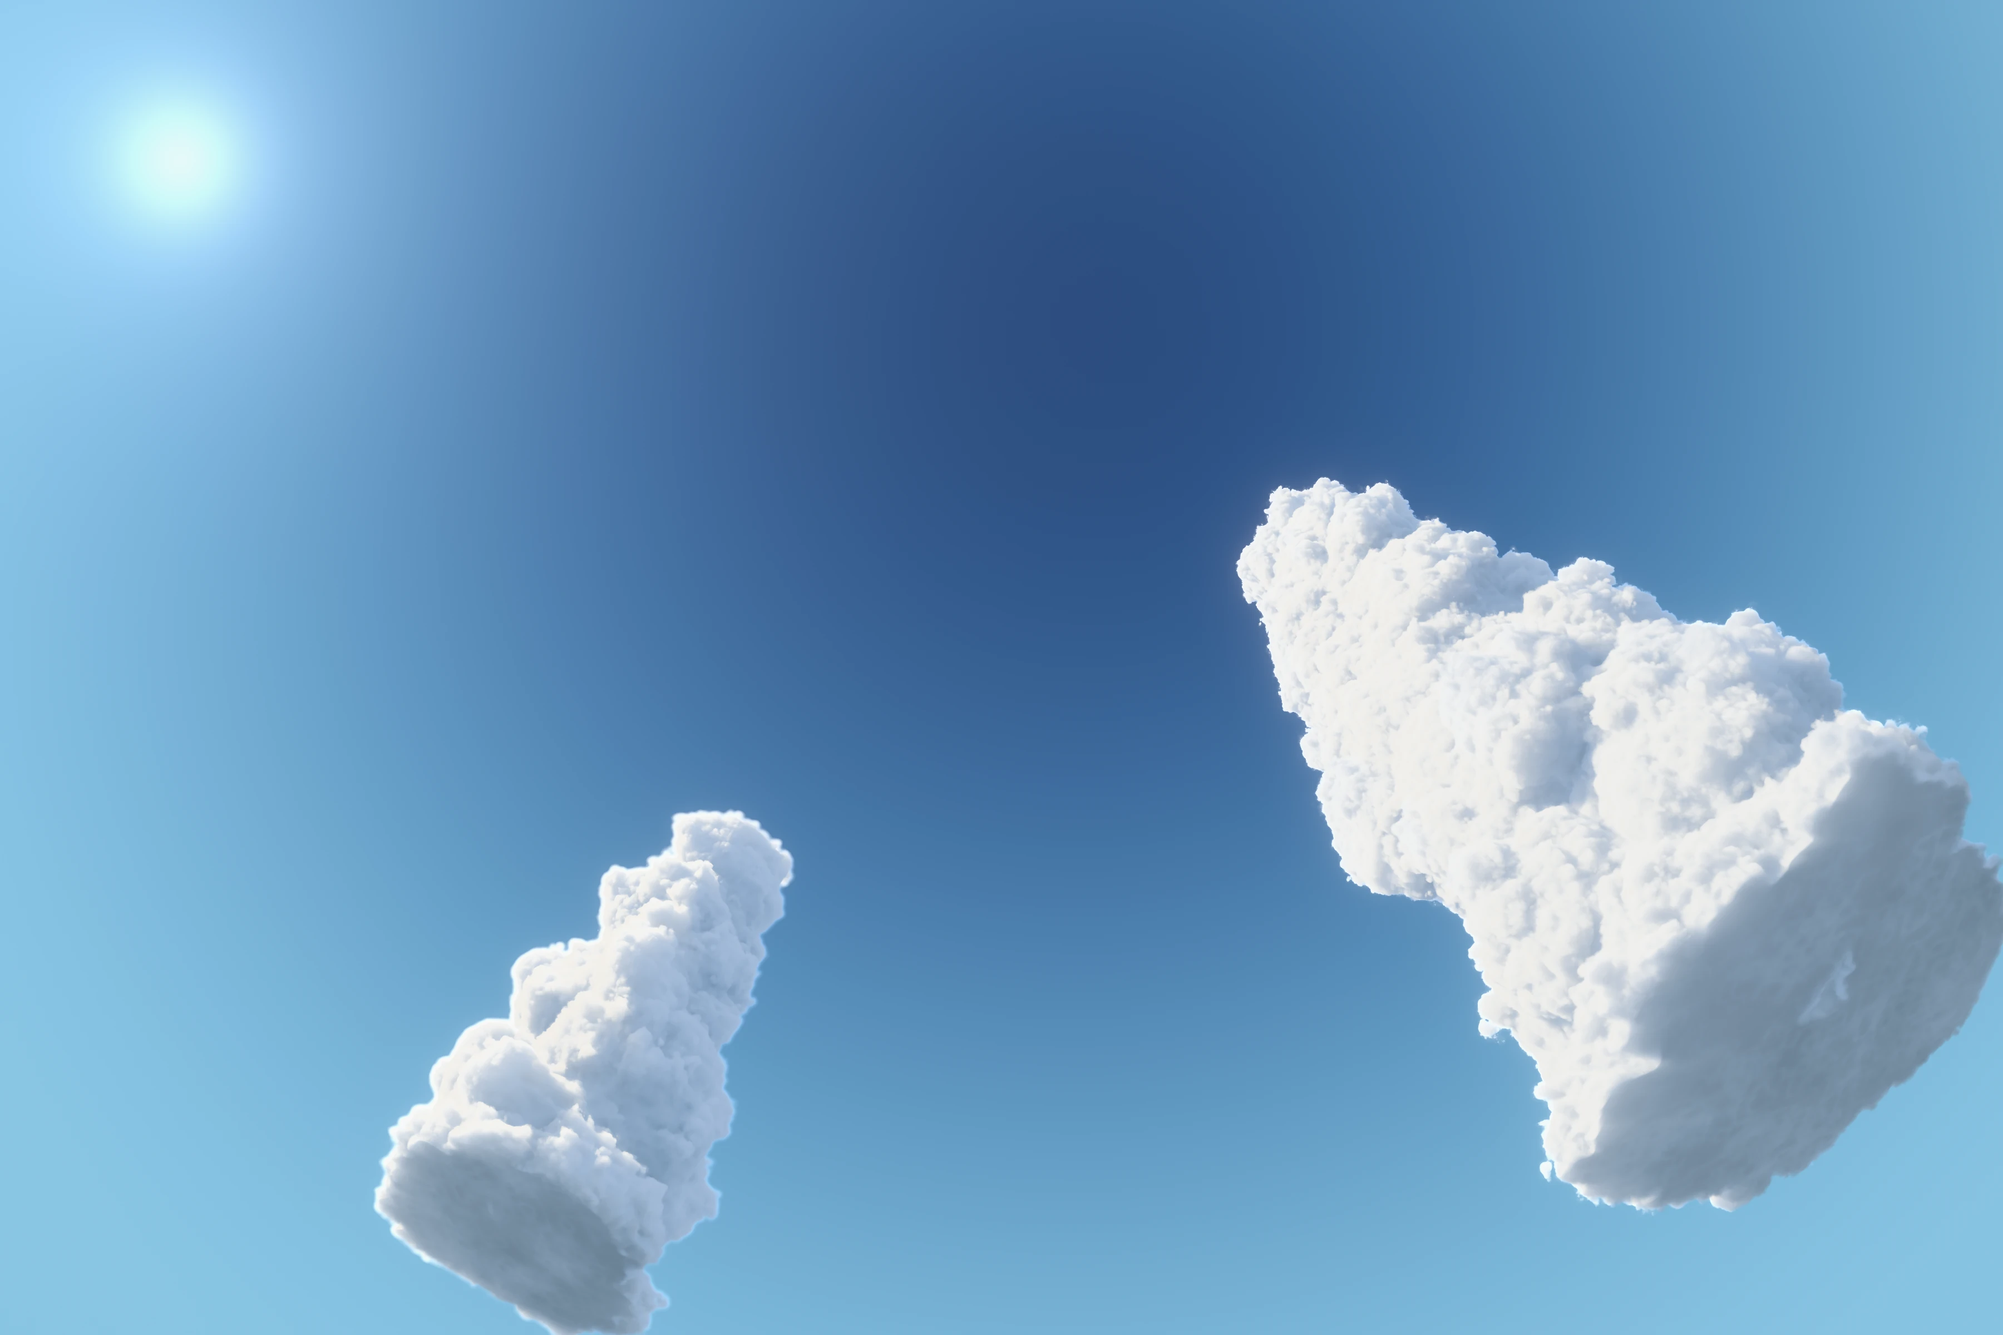
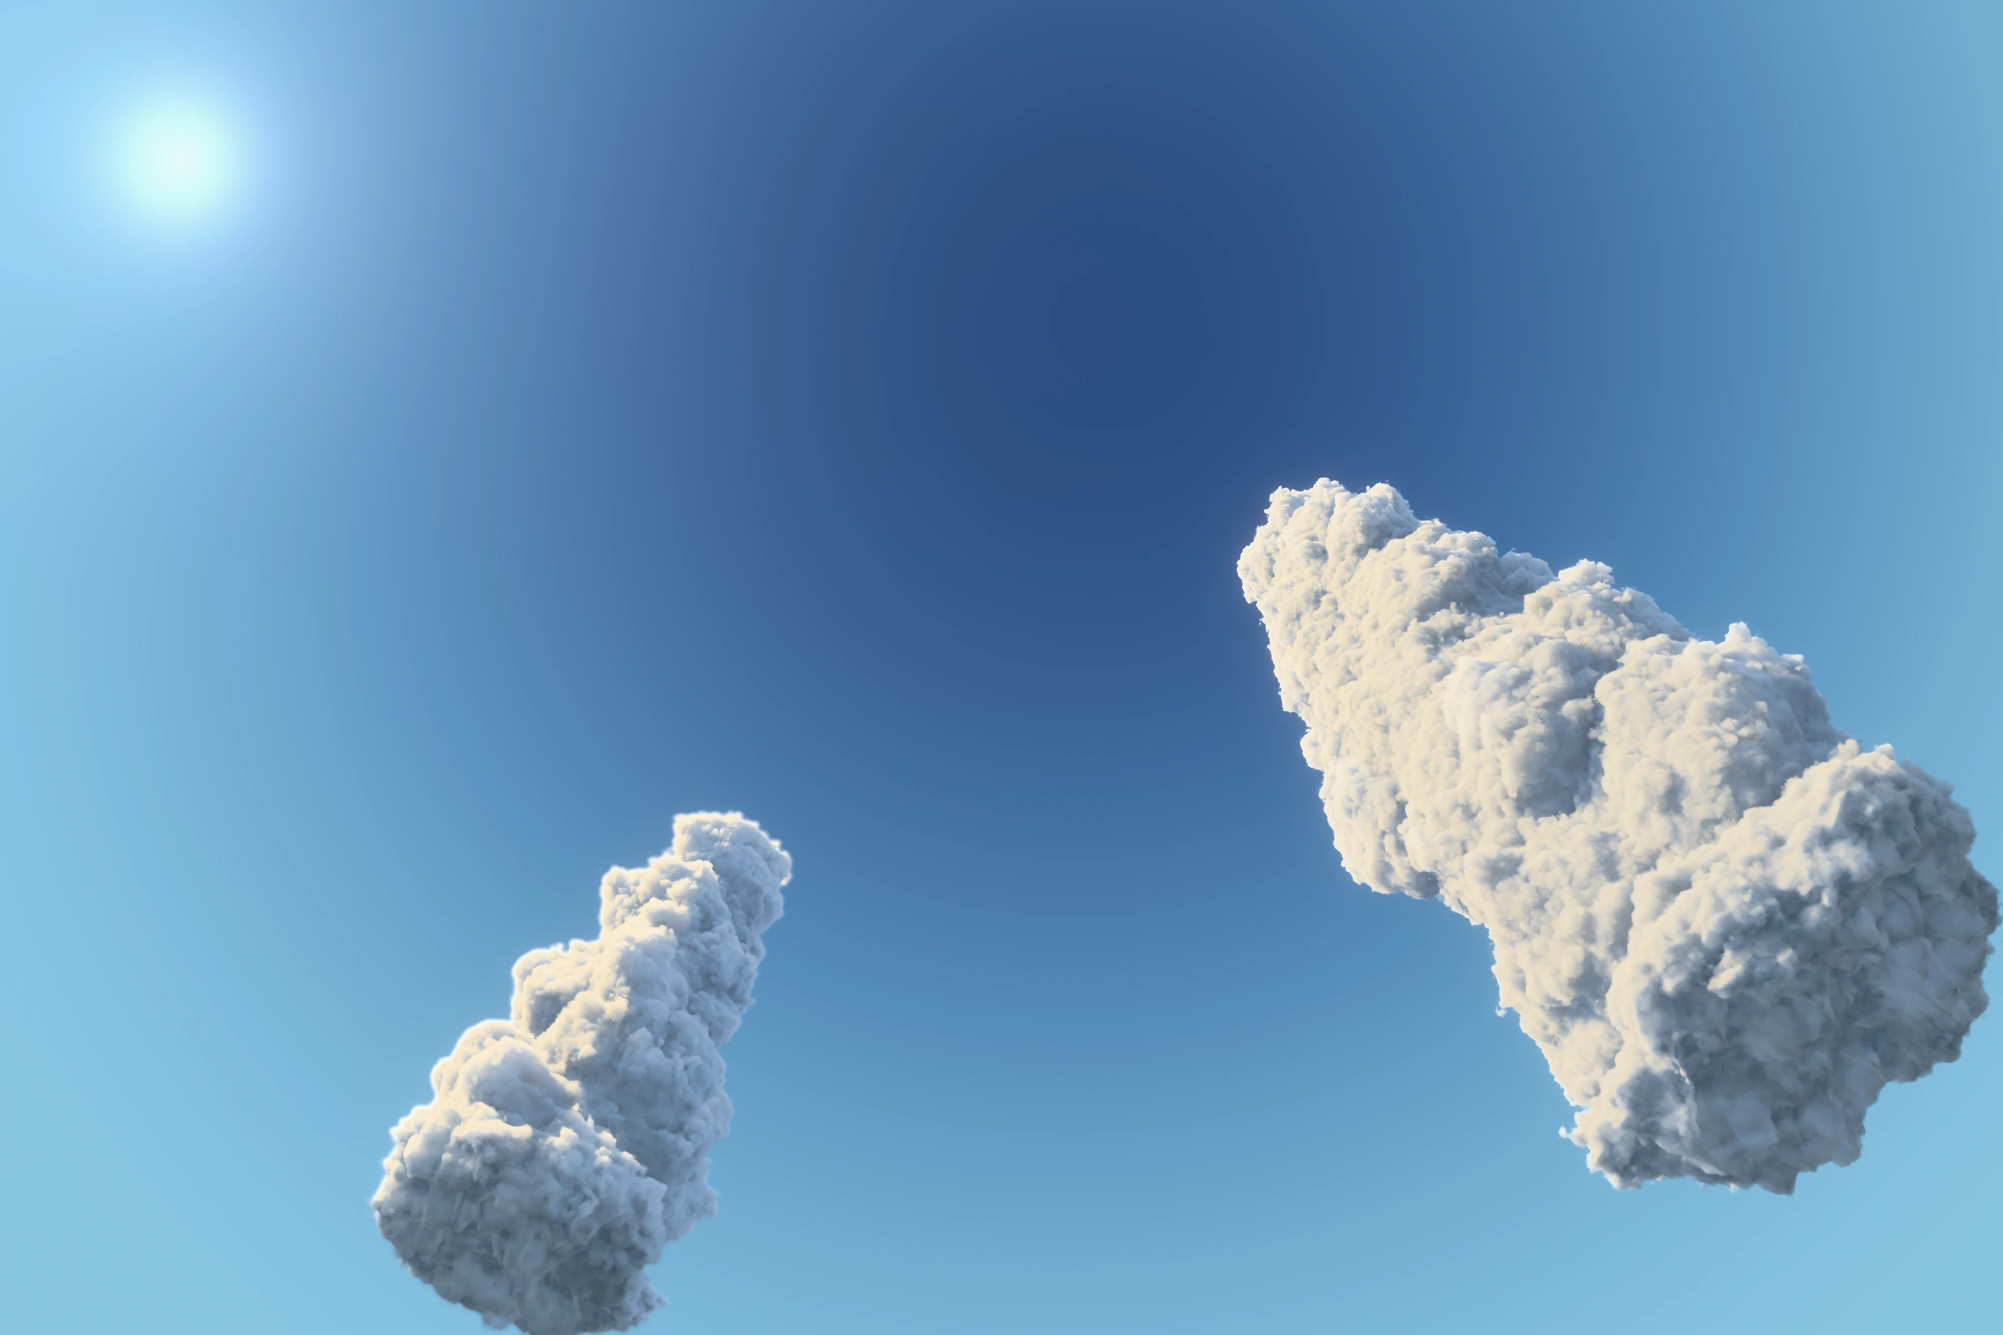
Lab: climb kaze round 2
Claude-Session: https://claude.ai/code/session_01RqENhngNCzDFmJWDZueXGV

Changed region(s): [[0.6222, 0.3438, 1.0, 0.9062], [0.1867, 0.5938, 0.4044, 1.0]]

diff --git a/tools/depth/bakes/kaze/sky_cumulus.py b/tools/depth/bakes/kaze/sky_cumulus.py
@@ -15,8 +15,14 @@ A cumulus here is a cauliflower, in km, the camera at the origin (x east,
 y ahead, z up):
 
 - A column of lobes up a slightly leaning axis, a skirt of lobes at the
-  bottom, all of it cut flat by the condensation level (a horizontal
-  plane): from below that cut is the flat base. The column is a stack of
+  bottom, all of it cut by the condensation level: from below that cut is
+  the base, flat in the large but never a ruled plane. It sags a little
+  under broad lumps (BSAG, BSF), so the underside is a set of shallow
+  downturned domes, and it is joined to the body by a smooth maximum
+  (BSK), so the flank's lobes roll round a broad shoulder onto it; the
+  erosion below is laid after the cut and runs on over that shoulder. (A
+  hard cut, seen from below, printed one dead-straight terminator across
+  the foot and a flat blue-grey slab under it.) The column is a stack of
   distinct lobes about a radius apart, alternately fuller and leaner and
   each pushed off the axis the other way from the one below, and every
   lobe of it and of the skirt carries a ring of side lobes pushed out
@@ -53,9 +59,11 @@ corner, as in kazeEngine.js) and toward the zenith:
   about two thirds of the sunlit tops' value, so each mass reads as a
   volume turned from the light and not a white cut-out;
 - the base: the flat underside, under the whole tower and facing down,
-  takes no sun, a dimmer and mottled light, and a flat blue-grey rather
-  than the flanks' cyan (about half the tops' value), low near the frame's
-  edge under every mass;
+  takes no sun, a dimmer and mottled light, and a blue-grey rather than
+  the flanks' cyan (about half the tops' value), modelled by its own lumps
+  (each downturned dome's side, tilted toward the horizon, takes more of
+  the low sky than its bottom, LOBK) with skylight-cyan clefts between
+  them, low near the frame's edge under every mass;
 - a little warm bounce from the summer ground on the undersides;
 - forward scattering (Henyey-Greenstein, g 0.72) where a thin edge stands
   between you and the sun: the silver lining; and the powder (the skin
@@ -73,14 +81,14 @@ nothing toward the sun, so the top left quarter is an open corner where the
 sun's bloom runs clean into the cobalt (TOWERS).
 
 The open sky and the sun's bloom are sky_tower.py's (open_sky). The cloud
-is exposed by its sunlit tops (GAIN, pinned to what WHITE at PCT 90
-measured over the old four-mass field), so the shade below them
-keeps its own value instead of being lifted toward the median, and its
-brightest domes roll off under the clip through a long shoulder (KNEE to
-TOP, rational, so the sunlit faces keep their lobe-by-lobe steps rather
-than flattening into one cream) that whitens as it rolls (DESAT), as film
-does near its white; the engine's grade and the
-film's shoulder carry them the rest of the way. Last, the cloud's whites
+is exposed by a pinned GAIN, set low enough that the sunlit faces sit on
+the steep part of a long shoulder (KNEE to TOP, rational) and not on its
+flat top: they print about 215 to 235, each lit knuckle a step above its
+lee, and only the crowns square to the sun climb to about 240, leaned to
+a warm cream (WARM, CREAM: about #F6EEDD once the engine's grade and the
+film's highlight tint have taken their share). Exposed as it was before
+(about 1.7 times this), the whole lit face pressed into the shoulder and
+printed one plateau of 238 to 245 neutral white. Last, the cloud's whites
 bleed a little into the cobalt round them (sky_tower.py's bleed), as light
 diffuses in the emulsion, so no lit edge meets the blue at a digital cut.
 The bake prints, per mass, the luminance of its body and of its base.
@@ -109,7 +117,9 @@ LVOX = float(os.environ.get("LVOX", 0.03))  # km: the light grid
 LUM = np.array([0.2126, 0.7152, 0.0722], np.float32)
 
 # Light, linear, before the exposure.
-SUN_C = np.array([1.0, 0.91, 0.74], np.float32)       # warm-neutral
+# The sun: warm, so the domes square to it print cream and not the neutral
+# white a cooler sun made of them once the skylight was added on top
+SUN_C = np.array([float(c) for c in os.environ.get("SUNC", "1.0,0.84,0.56").split(",")], np.float32)
 # The skylight, and the multiply scattered light inside the cloud, take the
 # zenith's colour, not grey: a pale cyan (hue about 200), so the flanks
 # turned from the sun print a luminous skylight cyan and never lean lavender.
@@ -121,13 +131,13 @@ GND_C = np.array([0.55, 0.50, 0.40], np.float32)      # bounce off the summer gr
 BASE_C = np.array([0.66, 0.81, 1.0], np.float32)
 BASE_C /= float(BASE_C @ np.array([0.2126, 0.7152, 0.0722], np.float32))
 KS = float(os.environ.get("KS", 4.0))    # sun
-KA = float(os.environ.get("KA", 2.4))   # skylight
-KM = float(os.environ.get("KM", 0.4))   # the deep multiple scattering (diffusion)
+KA = float(os.environ.get("KA", 2.0))   # skylight
+KM = float(os.environ.get("KM", 0.25))   # the deep multiple scattering (diffusion)
 KG = float(os.environ.get("KG", 0.05))   # ground bounce
 MSK = float(os.environ.get("MSK", 0.16))  # how fast the deep diffusion falls off with the sun's depth
-MSO = float(os.environ.get("MSO", 0.38))  # each scattering octave's contribution after the last
+MSO = float(os.environ.get("MSO", 0.3))  # each scattering octave's contribution after the last
 SKYF = float(os.environ.get("SKYF", 0.4))  # the skylight's floor under the cloud over a sample
-BASEK = float(os.environ.get("BASEK", 0.35))  # how far the flat base darkens
+BASEK = float(os.environ.get("BASEK", 0.5))  # how far the flat base darkens
 BASEH = float(os.environ.get("BASEH", 0.12))  # km: how deep up the tower the base's shade reaches
 G0 = float(os.environ.get("G0", 0.72))   # forward lobe of the first octave
 OCT = int(os.environ.get("OCT", 4))      # scattering octaves
@@ -140,10 +150,21 @@ FRW = float(os.environ.get("FRW", 0.022))     # km: the translucent fringe outsi
 FRD = float(os.environ.get("FRD", 0.05))      # its density, against the body's
 FRG = float(os.environ.get("FRG", 0.85))      # its forward lobe
 FRK = float(os.environ.get("FRK", 1.2))       # and how much of it
+LOBK = float(os.environ.get("LOBK", 0.8))     # how far the base's lumps model it
+AOK = float(os.environ.get("AOK", 0.6))       # how far the clefts between billows shade the skylight
 WHITE = float(os.environ.get("WHITE", 3.0))
-DESAT = float(os.environ.get("DESAT", 0.5))  # how far the shoulder whitens
+DESAT = float(os.environ.get("DESAT", 0.0))  # how far the shoulder whitens
 PCT = float(os.environ.get("PCT", 90.0))  # the cloud's 90th percentile is exposed to WHITE (linear)
-GAIN = float(os.environ.get("GAIN", 1.353))  # unless the exposure is pinned (0: by PCT)
+GAIN = float(os.environ.get("GAIN", 0.8))  # unless the exposure is pinned (0: by PCT)
+BSAG = float(os.environ.get("BSAG", 0.2))  # km: how far the base sags under its lumps
+BSK = float(os.environ.get("BSK", 0.13))    # km: the shoulder where the flank rolls onto the base
+BSF = float(os.environ.get("BSF", 4.5))     # /km: the sagging lumps' frequency
+WARM = float(os.environ.get("WARM", 0.9))    # how far the sunlit crowns lean to cream
+# the crowns' cream, as baked: warmer than the #F6EEDD they print at, since
+# the film's shoulder and its highlight tint take some of it back
+CREAM = np.array([int(os.environ.get("CREAMC", "F8E6C6")[i:i + 2], 16) / 255 for i in (0, 2, 4)], np.float32)
+CREAM = np.where(CREAM <= 0.04045, CREAM / 12.92, ((CREAM + 0.055) / 1.055) ** 2.4).astype(np.float32)
+CREAM /= float(CREAM @ LUM)
 FEATHER = float(os.environ.get("FEATHER", 1.0))  # the far mass's feathered rim (0: off)
 
 # The masses: azimuth (deg, 0 straight ahead = the frame's bottom centre,
@@ -157,7 +178,7 @@ TOWERS = [
     # enough off (2.6 km) that it is seen from the side, not from under its
     # base, at the wide lens. The one subject of the frame: one glowing tower
     # behind the dark hero culm, and from the sun a clean cobalt diagonal
-    dict(az=48, dist=2.6, zb=1.3, zt=5.2, rb=0.68, rt=0.44, lean=0.3, seed=1, foot=0.8),
+    dict(az=48, dist=2.6, zb=1.3, zt=5.2, rb=0.68, rt=0.44, lean=0.3, seed=1, foot=0.72),
     # low on the left, small and far: a subordinate cloud side-lit from
     # the left, its domes just clearing the field, well under the hero
     # (feathered: at its distance the silver fringe toward the sun shrinks
@@ -360,7 +381,7 @@ def tower(T):
     S = np.array(S, np.float64)
     lo = np.min(S[:, :3] - S[:, 3:4], 0) - 0.08
     hi = np.max(S[:, :3] + S[:, 3:4], 0) + 0.08
-    lo[2] = zb - 0.02
+    lo[2] = zb - BSAG - 0.04
     return S, lo, hi
 
 
@@ -431,7 +452,7 @@ def fine(x, y, z, seed):
 # ---- the grids ----
 
 @nb.njit(cache=True, parallel=True)
-def build_sdf(S, lo, nx, ny, nz, vox, zb, seed, mid):
+def build_sdf(S, lo, nx, ny, nz, vox, zb, seed, mid, bsag, bk, bsf):
     # a lower bound on the distance everywhere (FAR where no sphere is
     # within FAR of it), so the march may sphere-trace through the air
     FAR = 0.15
@@ -464,16 +485,33 @@ def build_sdf(S, lo, nx, ny, nz, vox, zb, seed, mid):
             for ii in range(nx):
                 x = lo[0] + (ii + 0.5) * vox
                 v = sdf[k, j, ii]
+                # the base: the condensation level, but not a ruled plane.
+                # Under each skirt lobe the cloud sags a little lower (broad
+                # lumps of a few hundred metres, up to bsag), so the
+                # underside is a set of shallow downturned domes, each
+                # turned its own way to the low sky
+                sag = bsag * min(max(billow(x, y, 0.0, bsf, 3, seed + 7) - BMEAN + 0.45, 0.0), 1.0)
+                cut = zb - sag - z + 0.012 * vnoise(x * 6.0, y * 6.0, 0.0, seed + 5)
                 if v < 0.15:
+                    # and the cut is joined to the body by a smooth maximum,
+                    # not a hard one: the flank's lobes roll round a broad
+                    # shoulder onto the base instead of meeting it at a
+                    # sharp rim, which seen from below printed as one dead
+                    # straight terminator across the foot
+                    h = min(max(0.5 + 0.5 * (v - cut) / bk, 0.0), 1.0)
+                    v = cut + (v - cut) * h + bk * h * (1.0 - h)
                     # the large erosion: lumps of a few hundred metres down to
                     # tens, and a middle one of about a hundred, both laid
                     # cauliflower-way out (as fine() is): round lumps stand
-                    # proud, sharp clefts cut in between them
-                    v += 0.055 * (billow(x, y, z, 3.2, 4, seed) - BMEAN + 0.05)
-                    v += mid * (billow(x, y, z, 9.0, 3, seed + 1) - BMEAN)
-                # the base: cut flat at the condensation level, faintly
-                # rippled so its edge is not a ruled line
-                v = max(v, zb - z + 0.012 * vnoise(x * 6.0, y * 6.0, 0.0, seed + 5))
+                    # proud, sharp clefts cut in between them. Laid after the
+                    # cut, so the billows and their clefts run on over the
+                    # shoulder and onto the base (a little shallower on the
+                    # underside itself, which stays flat in the large)
+                    wb = 0.55 + 0.45 * min(max((z - zb + sag) / 0.16, 0.0), 1.0)
+                    v += wb * 0.055 * (billow(x, y, z, 3.2, 4, seed) - BMEAN + 0.05)
+                    v += wb * mid * (billow(x, y, z, 9.0, 3, seed + 1) - BMEAN)
+                else:
+                    v = max(v, cut)
                 sdf[k, j, ii] = v
     return sdf
 
@@ -579,6 +617,9 @@ def render(DX, DY, DZ, sdf, ts, tu, lo, hi, vox, lvox, L, zb, zt, ramp, sigma, s
     ks, ka, km, kg, g0, noct, powk, fd = P[0], P[1], P[2], P[3], P[4], int(P[5]), P[6], P[7]
     msk, skyf, bk, bh, mso = P[8], P[9], P[10], P[11], P[12]
     frw, frd, frg, frk = P[13], P[14], P[15], P[16]
+    aok, lobk = P[17], P[18]
+    # the skylight's colour at unit luminance
+    skyn = skyc / (0.2126 * skyc[0] + 0.7152 * skyc[1] + 0.0722 * skyc[2])
     # how far out of the grid's surface a sample may still be cloud: the
     # skin, the fine billows standing proud of it, and the fringe beyond
     reach = max(ramp * 1.6, ramp * 0.5 + 0.7 * fd + frw)
@@ -733,7 +774,7 @@ def render(DX, DY, DZ, sdf, ts, tu, lo, hi, vox, lvox, L, zb, zt, ramp, sigma, s
                 # the floors are high: inside a cumulus the skylight is
                 # itself scattered round many times, so no face goes dark
                 sky = ((skyf + (1.0 - skyf) * math.exp(-0.05 * tau_u)) * (0.7 + 0.3 * hn)
-                       * (0.72 + 0.28 * gz) * (0.6 + 0.4 * ao))
+                       * (0.72 + 0.28 * gz) * (1.0 - aok + aok * ao))
                 gnd = (1 - hn) ** 2
                 # the base: the flat underside, under the whole tower and
                 # facing down, sees neither the sun nor the zenith, only the
@@ -758,9 +799,22 @@ def render(DX, DY, DZ, sdf, ts, tu, lo, hi, vox, lvox, L, zb, zt, ramp, sigma, s
                     # is, not a smooth grey disc
                     mot = 0.8 + 0.6 * vnoise(x * 7.0, y * 7.0, 0.5, seed + 9) + 0.2 * vnoise(x * 19.0, y * 19.0, 0.5, seed + 11)
                     k_ = 1.0 - bk * hb * (0.55 + 0.45 * (1.0 - math.exp(-0.015 * tau_u))) * mot
-                    er = (er * (1.0 - 0.75 * hb) + yl * basec[0] * 0.75 * hb) * k_
-                    eg = (eg * (1.0 - 0.75 * hb) + yl * basec[1] * 0.75 * hb) * k_
-                    eb_ = (eb_ * (1.0 - 0.75 * hb) + yl * basec[2] * 0.75 * hb) * k_
+                    # the underside's own lobes: each downturned dome's
+                    # flank, tilted toward the horizon, takes more of the
+                    # low sky than its bottom, and the clefts between the
+                    # domes less, so the base reads as lobes and not one
+                    # flat plane; the clefts lean to the skylight's cyan
+                    # rather than the base's grey
+                    hz_ = math.sqrt(gx * gx + gy * gy)
+                    lob = (1.0 - lobk) + lobk * (0.55 + 1.1 * hz_) * (0.35 + 0.65 * ao)
+                    k_ *= 1.0 - hb + hb * lob
+                    cy = min(0.75 * hb * (1.0 - ao) * 2.0, 0.75)
+                    cr_ = basec[0] * (1.0 - cy) + skyn[0] * cy
+                    cg_ = basec[1] * (1.0 - cy) + skyn[1] * cy
+                    cb_ = basec[2] * (1.0 - cy) + skyn[2] * cy
+                    er = (er * (1.0 - 0.75 * hb) + yl * cr_ * 0.75 * hb) * k_
+                    eg = (eg * (1.0 - 0.75 * hb) + yl * cg_ * 0.75 * hb) * k_
+                    eb_ = (eb_ * (1.0 - 0.75 * hb) + yl * cb_ * 0.75 * hb) * k_
                 a = 1 - math.exp(-sg * st)
                 cr += T * a * er
                 cg += T * a * eg
@@ -786,7 +840,7 @@ def main():
     DX, DY, DZ = [np.ascontiguousarray(D[..., i]) for i in range(3)]
     del D
     L = unit(ray_at(*SUN)).astype(np.float64)
-    PRM = np.array([KS, KA, KM, KG, G0, OCT, POW, FINE, MSK, SKYF, BASEK, BASEH, MSO, FRW, FRD, FRG, FRK], np.float64)
+    PRM = np.array([KS, KA, KM, KG, G0, OCT, POW, FINE, MSK, SKYF, BASEK, BASEH, MSO, FRW, FRD, FRG, FRK, AOK, LOBK], np.float64)
     skyl = open_sky(U, V).astype(np.float32)
 
     # the masses, far to near (by the axis' distance)
@@ -807,7 +861,7 @@ def main():
         t0 = time.time()
         S, lo, hi = tower(T)
         nx, ny, nz = [int(np.ceil((hi[i] - lo[i]) / VOX)) for i in range(3)]
-        sdf = build_sdf(S, lo, nx, ny, nz, VOX, T["zb"], SEED + T["seed"] * 31, MID)
+        sdf = build_sdf(S, lo, nx, ny, nz, VOX, T["zb"], SEED + T["seed"] * 31, MID, BSAG, BSK, BSF)
         hi2 = lo + np.array([nx, ny, nz]) * VOX
         ts, tu = build_light(sdf, lo, hi2, VOX, LVOX, L, RAMP, SIGMA)
         o = np.zeros((H, W, 3), np.float32)
@@ -849,11 +903,8 @@ def main():
     print("cloud percentiles 50/90/99/99.7/max", [round(float(np.percentile(mx, q)), 3) for q in (50, 90, 99, 99.7, 100)])
     pk = np.percentile(mx, PCT) if solid.any() else 1.0
     gain = WHITE / pk
-    # GAIN pins it: measured by percentile over the field it was, and with
-    # the shaded masses gone (the backlit one toward the sun, the one behind
-    # your head) the hero's own sunlit faces alone set it and printed it
-    # half a stop down. Pinned to the gain the field measured, the hero
-    # keeps its print
+    # GAIN pins it (0: by percentile). Pinned low, so the sunlit faces sit
+    # on the steep part of the shoulder below and keep their modelling
     if GAIN > 0:
         gain = GAIN
     print(f"exposure gain {gain:.3f}")
@@ -865,7 +916,7 @@ def main():
     # between each lit knuckle and its lee all the way up, and only the
     # very crowns come near TOP
     m = rad.max(-1)
-    K, TOP = float(os.environ.get("KNEE", 0.4)), float(os.environ.get("TOP", 0.95))
+    K, TOP = float(os.environ.get("KNEE", 0.35)), float(os.environ.get("TOP", 1.05))
     x = np.maximum(m - K, 0) / (TOP - K)
     roll = x / (1 + x)   # how far up the shoulder, 0 at the knee, 1 at TOP
     sm = np.where(m < K, m, K + (TOP - K) * roll)
@@ -875,6 +926,13 @@ def main():
     # (their light is the sun's), and only the shade keeps the sky's cyan
     w = DESAT * roll[..., None]
     rad = rad * (1 - w) + (rad @ LUM)[..., None] * w
+    # and the domes square to the sun keep a warm cream core (about #F6EEDD
+    # printed): the skylight that the rest of the cloud carries cools a lit
+    # face toward a neutral white, so the highest of the shoulder alone is
+    # leaned to the sun's cream (luminance kept), most at the crowns
+    w = WARM * (roll * roll)[..., None]
+    Yr = (rad @ LUM)[..., None]
+    rad = rad * (1 - w) + Yr * CREAM * w
     acc = rad + tr[..., None] * skyl
     # and the cloud's whites bleed a little into the cobalt round them
     acc = bleed(acc, rad, tr, W)
